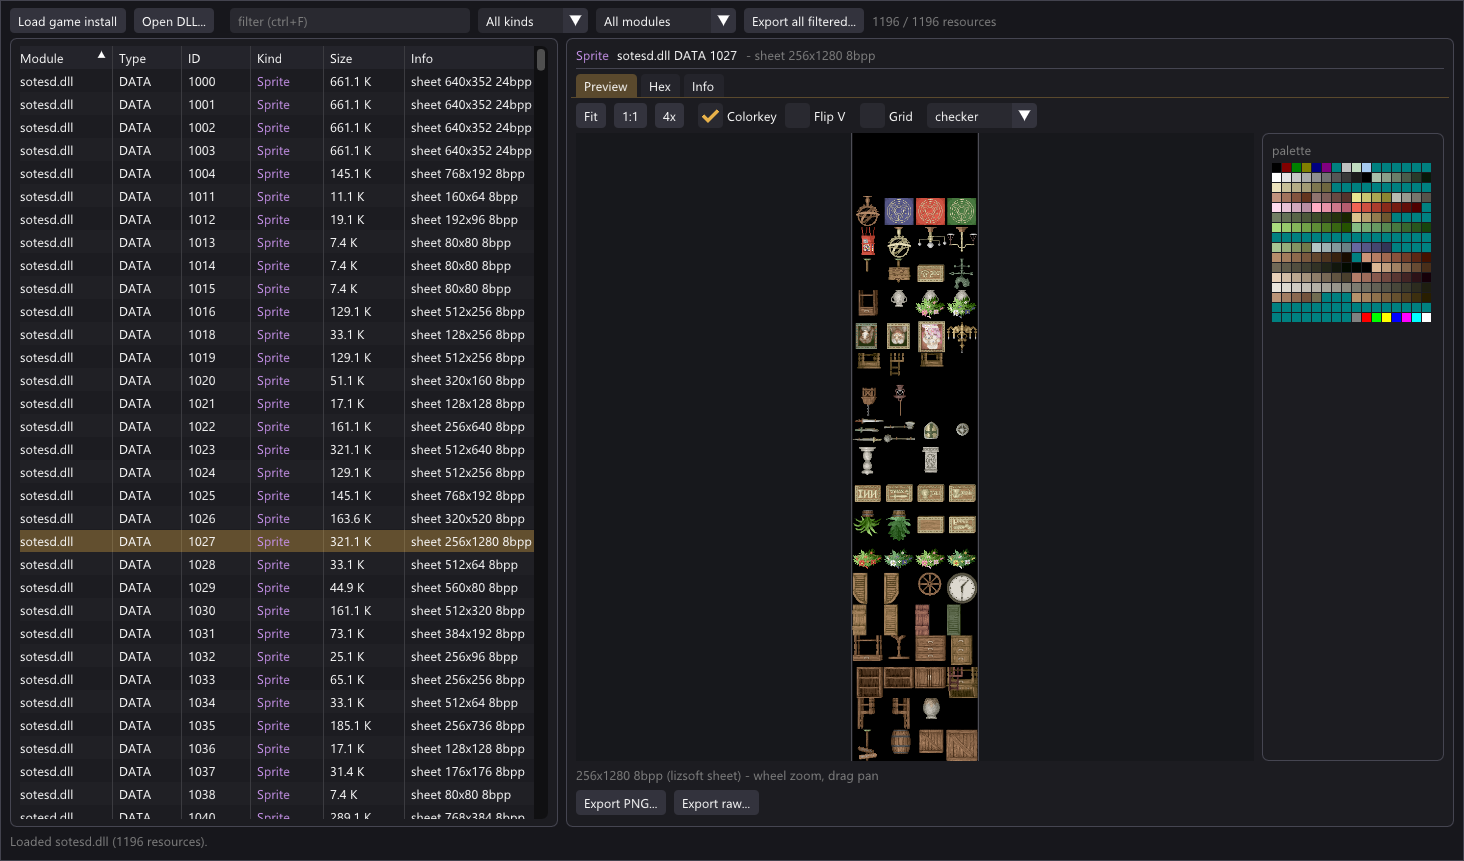
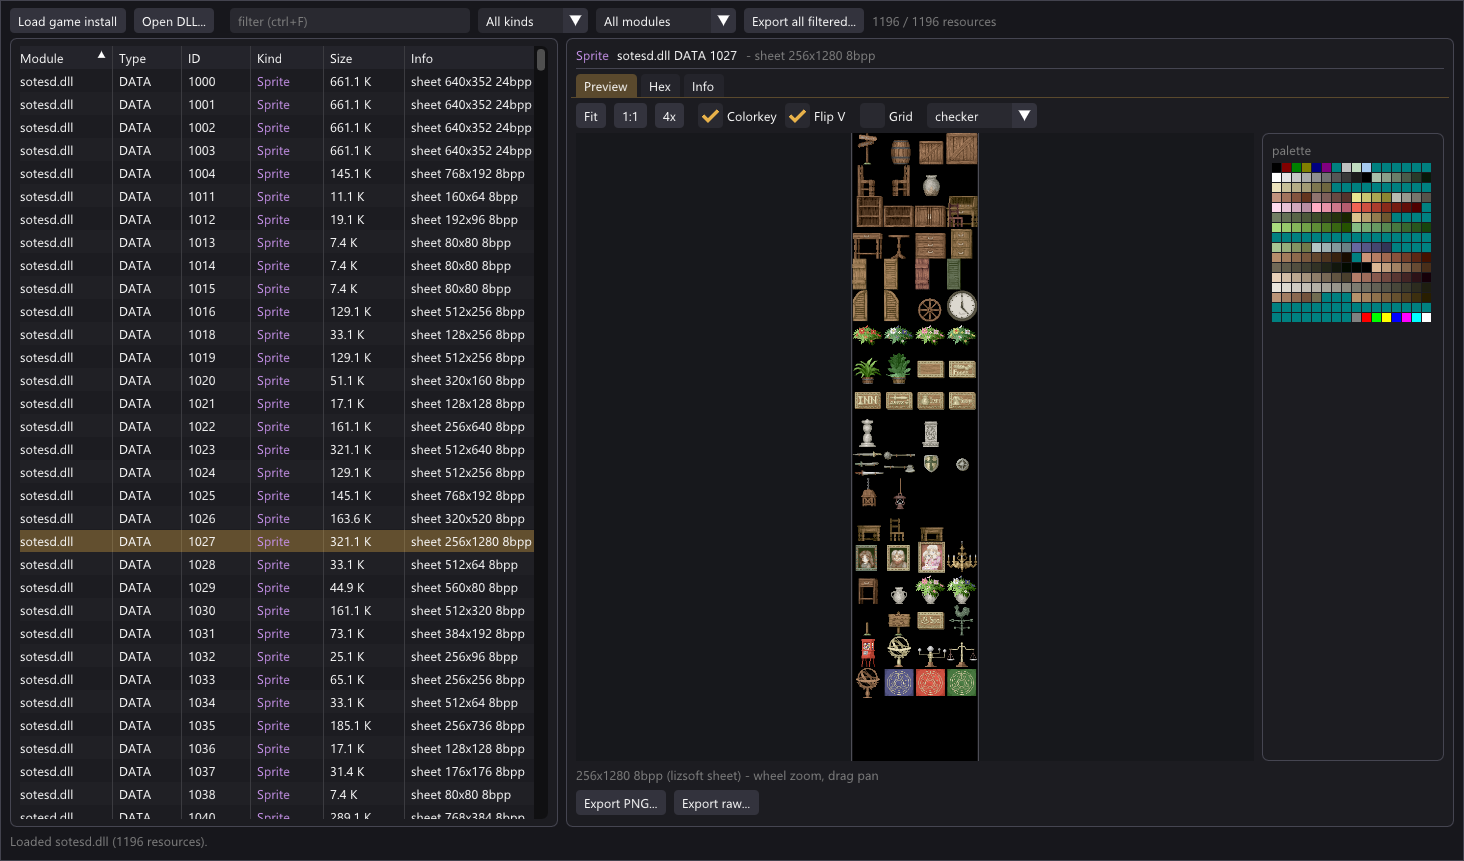
fix(res_explorer): sheets are bottom-up DIBs at every depth - default V-flip on
USER: every sheet rendered mirrored vertically. Root cause: trusted the old
lizsoft-sprite.md "pixels top-down (verified visually)" note for 8bpp, but the
engine's own trim scan (FUN_005b6f80) addresses sheets bottom-up - the doc's
verification was against already-flipped extractor output (spec corrected).
Visual proof post-fix: dog sheet 1016 upright in every row; the 1027 shop
signs now read "INN" instead of mirror-image. Hero pic regenerated.

Changed region(s): [[0.584, 0.151, 0.6762, 0.9059]]

diff --git a/tools/res_explorer/res_core.cpp b/tools/res_explorer/res_core.cpp
@@ -399,10 +399,11 @@ static void session_to_image(const bitmap_session *s, RxImage *out)
     out->h = (int)s->biHeight;
     out->bpp = s->biBitCount;
     out->has_palette = (s->biBitCount == 8);
-    out->default_flip = (s->biBitCount != 8);   // 8bpp sheets read top-down
-                                                // (lizsoft-sprite.md); 24bpp
-                                                // blobs are bottom-up DIBs
-                                                // (quirk #98)
+    out->default_flip = 1;   // decoded sheets are bottom-up DIBs at every depth
+                             // (matches the engine's own trim math, FUN_005b6f80;
+                             // 24bpp portraits = quirk #98; USER-confirmed for
+                             // 8bpp sheets 2026-07-02 — the old "top-down" note
+                             // in lizsoft-sprite.md was against flipped output)
     for (int i = 0; i < 256; i++) {
         // session palette is RGBQUAD (B,G,R,_)
         uint8_t b = s->palette[i * 4 + 0], g = s->palette[i * 4 + 1],

diff --git a/docs/formats/lizsoft-sprite.md b/docs/formats/lizsoft-sprite.md
@@ -11,6 +11,11 @@
 > path with pixel payloads that exactly fit the blob. The outer-magic "families"
 > distinguish something else (palette layout?), not the decode path. The
 > byte-inspection notes below remain useful for the fixed-header fields.
+> **Orientation is also corrected:** pixel rows are **bottom-up** (standard DIB),
+> consistent with the engine's own trim scan (`FUN_005b6f80` addresses the sheet
+> bottom-up) — USER-confirmed visually across sheets 2026-07-02. The "top-down,
+> verified visually" claim in §Pixel data was made against already-flipped
+> extractor output.
 
 Format used by ~28% of the DATA entries in `sotesd.dll` (213/759 blobs
 parse cleanly as this variant; the rest belong to sibling families

diff --git a/tools/res_explorer/README.md b/tools/res_explorer/README.md
@@ -40,7 +40,8 @@ The tool supplies its own `bs_load_pe_resource` with the 1041-language fallback
   (100k+ rows stay 60 fps). `↑/↓` moves selection.
 - **Right** — `Preview | Hex | Info` tabs + a per-kind export bar.
   - Images: wheel zoom (fit/1:1..16x), pan, colorkey toggle (magenta, quirk #47),
-    V-flip (8bpp sheets are stored top-down, 24bpp bottom-up), frame-grid overlay
+    V-flip (sheets are bottom-up DIBs at every depth — flipped upright by
+    default, toggle shows raw memory order), frame-grid overlay
     with cell W/H (dims aren't in the 8bpp container — quirk of the format; the
     compressed header DOES carry sheet dims), hovered-pixel readout, palette panel.
   - Audio: peak waveform, click-to-seek, space = play/pause, loop, volume.